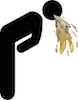
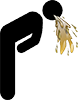
changed vomit pic, about section title and made a single button for skills

diff --git a/index.html b/index.html
@@ -56,7 +56,7 @@
 		<div class="container">
 			<div class="row">
 				<div class="col-lg-12 text-center">
-					<h2>Software Engineer</h2>
+					<h2>About Me</h2>
 					<p class="lead">
 						I am passionate about learning and beautiful, simple design. I love coming up with new ways to improve a user’s experience and bring attention to detail with everything I do.
 					</p>
@@ -84,7 +84,6 @@
 									<strong>Ruby on Rails</strong>
 								</h4>
 								<p>Ruby 2.1.2 and Rails 4</p>
-								<a href="https://www.linkedin.com/in/hillalistair#profile-experience" class="btn btn-light" target="_blank">learn more</a>
 							</div>
 						</div>
 
@@ -95,7 +94,6 @@
 									<strong>JavaScript</strong>
 								</h4>
 								<p>Vanilla and jQuery, MVC and Ajax</p>
-								<a href="https://www.linkedin.com/in/hillalistair#profile-experience" class="btn btn-light" target="_blank">learn more</a>
 							</div>
 						</div>
 
@@ -106,7 +104,6 @@
 									<strong>Testing</strong>
 								</h4>
 								<p>Jasmine, RSPEC and Capybara</p>
-								<a href="https://www.linkedin.com/in/hillalistair#profile-experience" class="btn btn-light" target="_blank">learn more</a>
 							</div>
 						</div>
 
@@ -117,7 +114,6 @@
 									<strong>HTML5 and CSS3</strong>
 								</h4>
 								<p>Clean design with HTML5 and CSS3</p>
-								<a href="https://www.linkedin.com/in/hillalistair#profile-experience" class="btn btn-light" target="_blank">learn more</a>
 							</div>
 						</div>
 
@@ -125,6 +121,7 @@
 					<!-- /.row (nested) -->
 				</div>
 				<!-- /.col-lg-10 -->
+				<br><a href="https://www.linkedin.com/in/hillalistair#profile-experience" class="btn btn-lg btn-light" target="_blank">learn more</a>
 			</div>
 			<!-- /.row -->
 		</div>
@@ -197,6 +194,7 @@
 			<div class="row">
 				<div class="col-lg-12 text-center">
 					<h3>Resume</h3>
+					<hr class="small">
 					<a href="downloads/Hill_Alistair__Resume.pdf" target="_blank" class="btn btn-lg btn-light">PDF</a>
 					<a href="downloads/Hill_Alistair__Resume.docx" target="_blank" class="btn btn-lg btn-dark">Word</a>
 				</div>

diff --git a/css/custom.css b/css/custom.css
@@ -271,5 +271,5 @@ hr.small {
 
 /* Footer */
 footer {
-	padding: 50px 0;
+	padding: 40px 0;
 }
